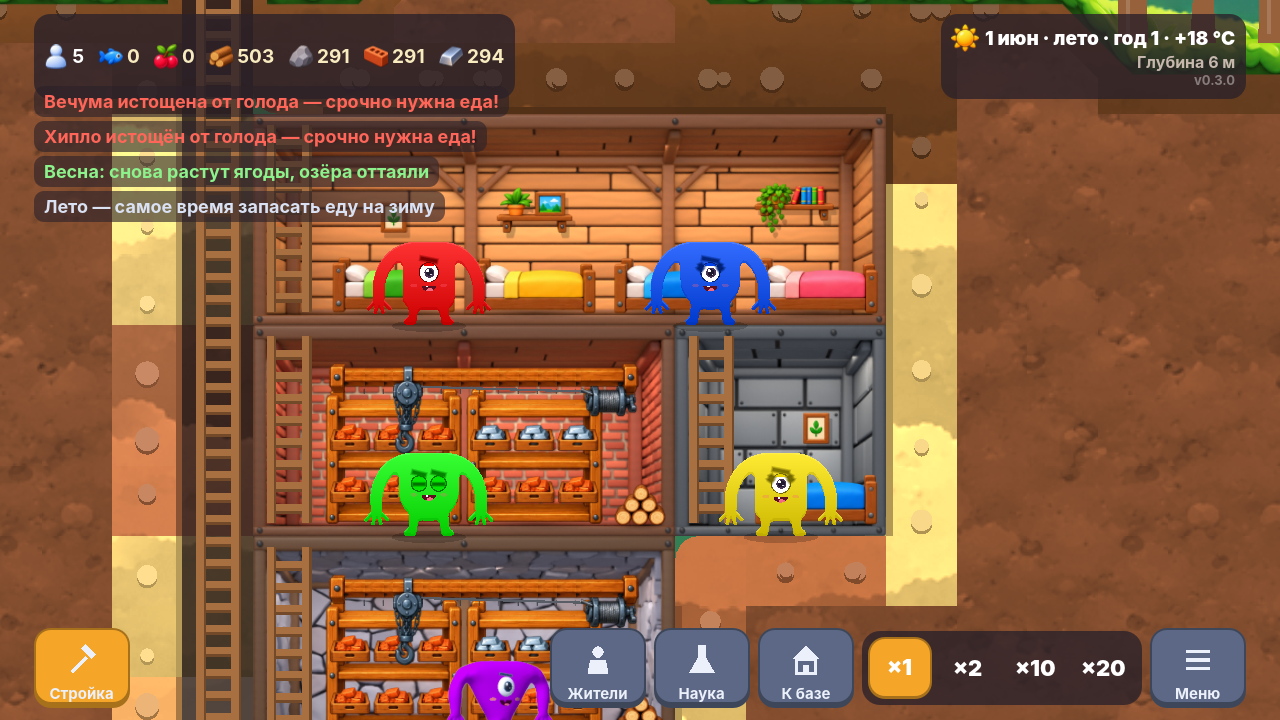
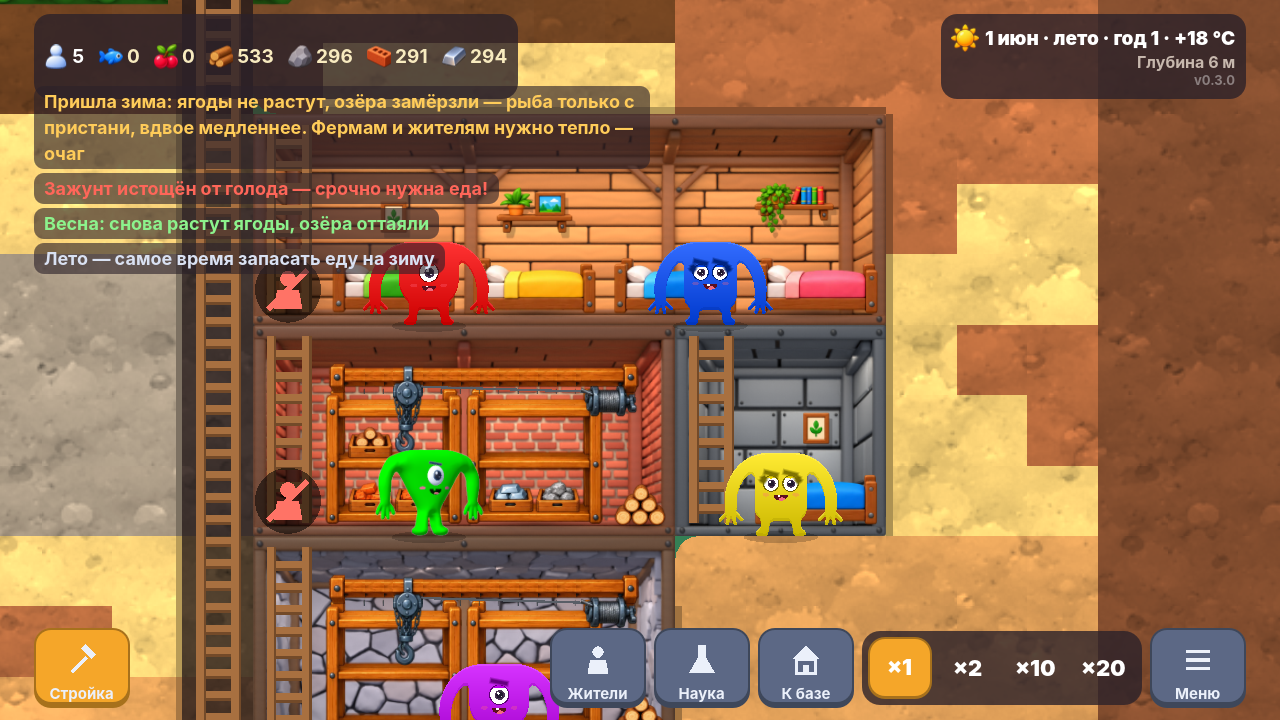
Склад: ящики стоят на полках — по два между стойками, на верхней грани полки; запасы по комнате
- уровни полок и ширина между стойками сняты с картинки стеллажа (0,18 и 0,95 м, 1,37 м)
- ящики чуть крупнее (×1,1), по запасам конкретной комнаты (Colony.held_in)
- превью: склады с разными ресурсами

Claude-Session: https://claude.ai/code/session_01Gsst3hFuf1c6zM4f6Jt7o5

diff --git a/docs/DESIGN_PLAN.md b/docs/DESIGN_PLAN.md
@@ -52,7 +52,9 @@
    предметы — из листов `art_src/rooms/sheets/<комната>_items.png` на прозрачном фоне (с прототипа
    деревянная мебель от деревянной стены чисто не отделяется — проверено, в т. ч. rembg);
    нарезка `art_src/rooms/cut_sheets.py` → `assets/furniture/<комната>/`, расстановка —
-   `StructureLayer._draw_home_furniture` / `_draw_storage_furniture`. Готово: жилая, склад (без флажков; брус тали — во всю комнату);
+   `StructureLayer._draw_home_furniture` / `_draw_storage_furniture`. Готово: жилая, склад (без флажков; брус тали — во всю комнату;
+   ящики — по два на полку, по разметке картинки стеллажа; пробовали мебель в Blender — автору
+   нарисованная нравится больше);
    состояния «строится» / «повреждена».
 4. Улица — деревья по сезонам, ели, кусты, валуны (модели).
 5. Жители — квадратные и круглые на основе `art_src/characters/BlueBuddy.blend`,
